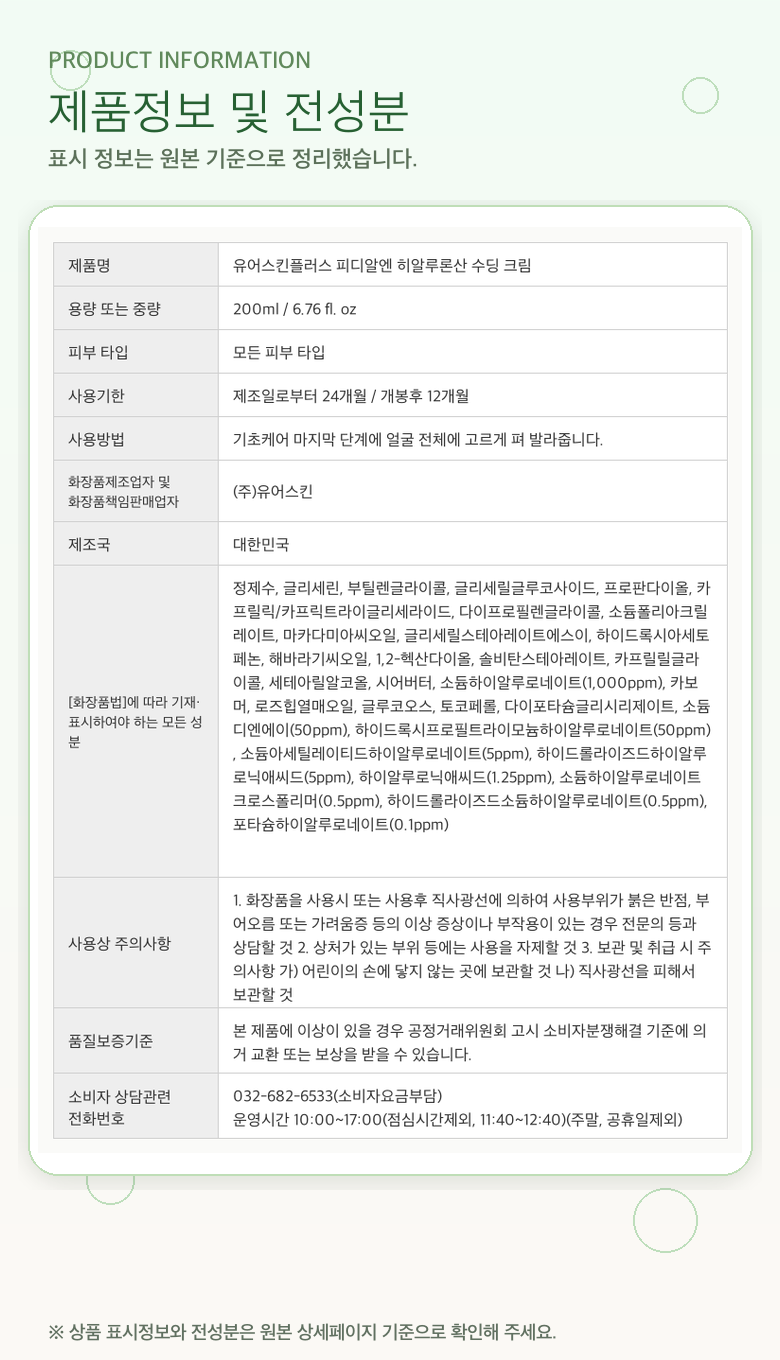
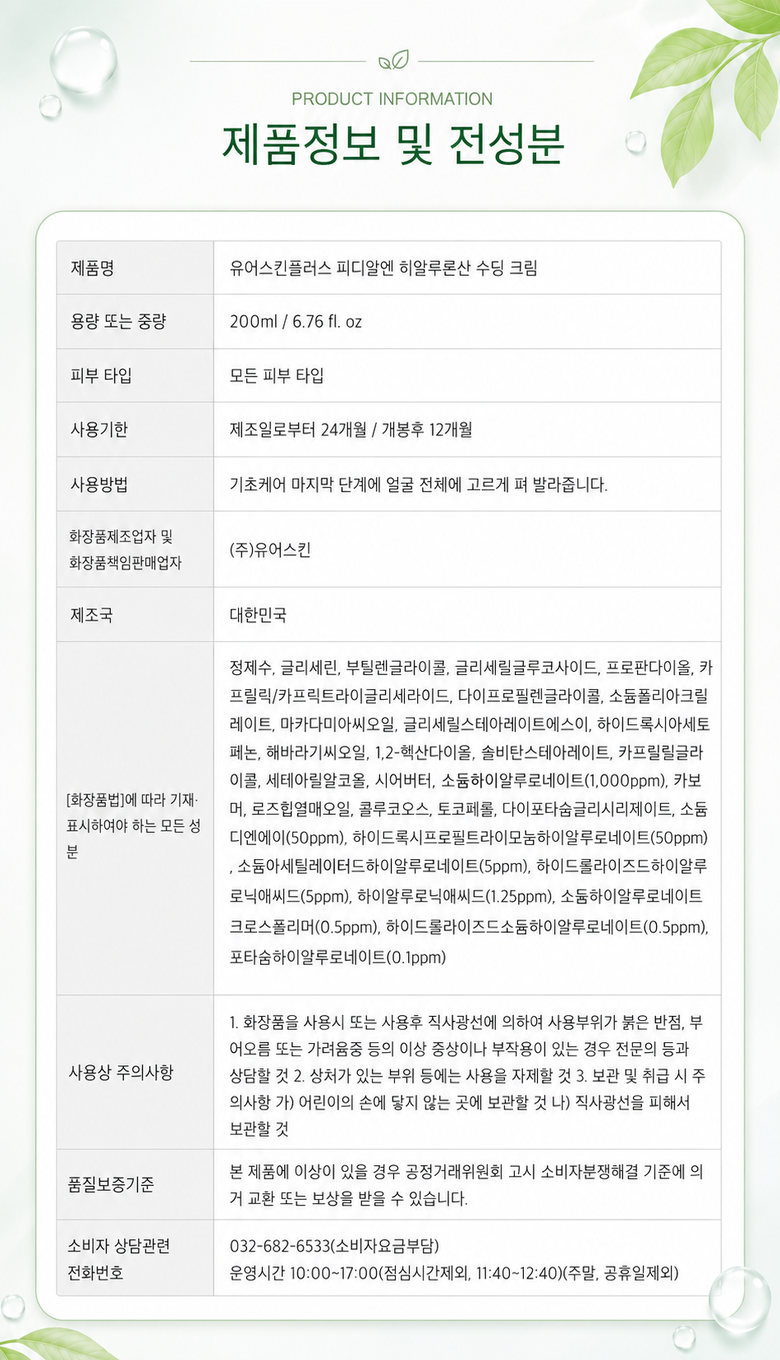
fix: refine soothing cream table tone with GPT Images

diff --git a/src/data/marketingOps.ts b/src/data/marketingOps.ts
@@ -536,7 +536,7 @@ export const productVersions: Record<string, ProductVersion[]> = {
       label: 'V1 후보',
       status: 'candidate',
       date: '2026-06-17',
-      summary: 'PDRN 히알루론산 수딩 크림 V1 후보입니다. ChatGPT Images를 통해 대표 01~06과 상세 흐름을 순차 생성/내부 QA 후 반영했고, 상세 01과 02 사이에 성인 여성 사용감 브릿지 컷 01a를 추가했습니다. 최종 검토 후 01a/02~05 해상도를 780×1360으로 정규화했고, 저자극 컷의 강한 표현을 완화했으며, 제품정보·전성분 표는 내용 유지 상태로 V1 톤을 보강해 맨뒤 표시 순서로 배치했습니다. 쿠팡에는 아직 미반영입니다.',
+      summary: 'PDRN 히알루론산 수딩 크림 V1 후보입니다. ChatGPT Images를 통해 대표 01~06과 상세 흐름을 순차 생성/내부 QA 후 반영했고, 상세 01과 02 사이에 성인 여성 사용감 브릿지 컷 01a를 추가했습니다. 최종 검토 후 01a/02~05 해상도를 780×1360으로 정규화했고, 저자극 컷의 강한 표현을 완화했으며, 제품정보·전성분 표는 GPT Images로 표 중심 구조를 유지하면서 주변 톤앤매너를 보정해 맨뒤 표시 순서로 배치했습니다. 쿠팡에는 아직 미반영입니다.',
       mainImages: Array.from({ length: 6 }, (_, i) => '/coupang/images/soothing-cream/versions/v1/representative/' + String(i + 1).padStart(2, '0') + '.png'),
       detailImages: [
         '/coupang/images/soothing-cream/versions/v1/detail/01.png',
@@ -551,7 +551,7 @@ export const productVersions: Record<string, ProductVersion[]> = {
       ],
       metrics: [
         { label: '대표', value: '6컷 GPT Images 순차 생성' },
-        { label: '상세', value: '01a 포함 16컷 · 780×1360 정규화 · 저자극 문구 완화 · 법정표 V1 톤 보강' },
+        { label: '상세', value: '01a 포함 16컷 · 780×1360 정규화 · 저자극 문구 완화 · 법정표 GPT 톤 보정' },
         { label: '상태', value: '쿠팡 미반영 후보' },
       ],
     },
